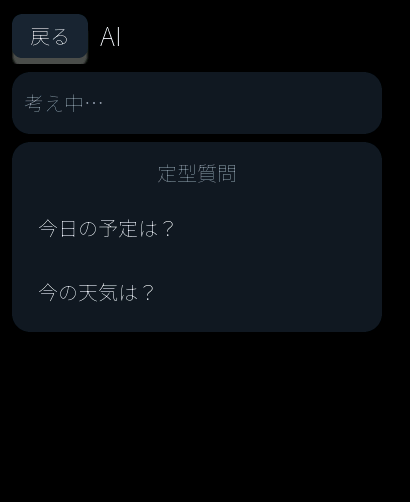
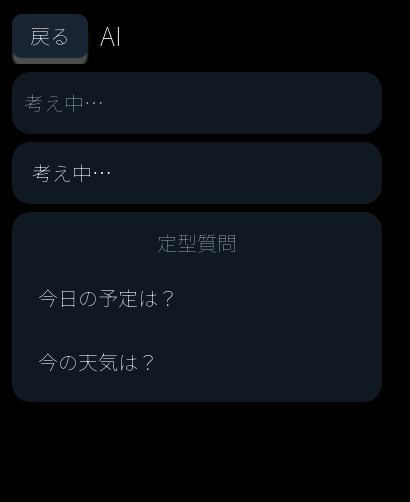
ui(agent): 返答/エラーカードを話しかける直下へ移動、考え中も同位置に表示

diff --git a/firmware/components/ui/src/screens/agent.cpp b/firmware/components/ui/src/screens/agent.cpp
@@ -90,13 +90,30 @@ void refresh() {
     lv_obj_add_flag(s.rec_bar, LV_OBJ_FLAG_HIDDEN);
   }
 
-  // 返答/エラーカード。
-  if (p == AgentPhase::Reply) {
-    lv_label_set_text(s.reply_l, watch::features::agent_reply_text());
+  // 送信中/考え中/返答/エラーカード (「話しかける」のすぐ下、定型質問より上)。
+  const char* reply_txt = nullptr;
+  bool show_close = false;
+  switch (p) {
+    case AgentPhase::Sending: reply_txt = "送信中…"; break;
+    case AgentPhase::Thinking: reply_txt = "考え中…"; break;
+    case AgentPhase::Reply:
+      reply_txt = watch::features::agent_reply_text();
+      show_close = true;
+      break;
+    case AgentPhase::Error:
+      reply_txt = watch::features::agent_error_text();
+      show_close = true;
+      break;
+    default: break;
+  }
+  if (reply_txt) {
+    lv_label_set_text(s.reply_l, reply_txt);
     lv_obj_remove_flag(s.reply_card, LV_OBJ_FLAG_HIDDEN);
-  } else if (p == AgentPhase::Error) {
-    lv_label_set_text(s.reply_l, watch::features::agent_error_text());
-    lv_obj_remove_flag(s.reply_card, LV_OBJ_FLAG_HIDDEN);
+    if (show_close) {
+      lv_obj_remove_flag(s.close_btn, LV_OBJ_FLAG_HIDDEN);
+    } else {
+      lv_obj_add_flag(s.close_btn, LV_OBJ_FLAG_HIDDEN);
+    }
   } else {
     lv_obj_add_flag(s.reply_card, LV_OBJ_FLAG_HIDDEN);
   }
@@ -136,6 +153,22 @@ lv_obj_t* build(lv_obj_t* scr) {
   lv_obj_set_style_bg_color(s.rec_bar, t.surface2, LV_PART_MAIN);
   lv_obj_set_style_bg_color(s.rec_bar, t.primary, LV_PART_INDICATOR);
 
+  // 返答/エラー表示カード (「話しかける」のすぐ下、定型質問より上。
+  // 長文はラベル折り返し + content 全体スクロール)。
+  s.reply_card = ui::c::card(col);
+  lv_obj_set_flex_align(s.reply_card, LV_FLEX_ALIGN_START,
+                        LV_FLEX_ALIGN_CENTER, LV_FLEX_ALIGN_CENTER);
+  s.reply_l = lv_label_create(s.reply_card);
+  lv_obj_set_width(s.reply_l, 330);
+  lv_obj_set_style_text_font(s.reply_l, t.font_body, 0);
+  lv_obj_set_style_text_color(s.reply_l, t.text, 0);
+  lv_label_set_long_mode(s.reply_l, LV_LABEL_LONG_WRAP);
+  s.close_btn = ui::c::button(s.reply_card, "閉じる",
+      [](lv_event_t*) { ui::emit(watch::ActionType::AgentClear); },
+      nullptr);
+  fit_in_card(s.close_btn);
+  lv_obj_add_flag(s.reply_card, LV_OBJ_FLAG_HIDDEN);
+
   // 定型質問ボタン (settings agent.q1..3 の非空分)。
   s.ask_card = ui::c::card(col);
   ui::c::line(s.ask_card, "定型質問");
@@ -156,21 +189,6 @@ lv_obj_t* build(lv_obj_t* scr) {
       lv_obj_set_width(l, LV_PCT(100));
     }
   }
-
-  // 返答/エラー表示カード (長文はラベル折り返し + content 全体スクロール)。
-  s.reply_card = ui::c::card(col);
-  lv_obj_set_flex_align(s.reply_card, LV_FLEX_ALIGN_START,
-                        LV_FLEX_ALIGN_CENTER, LV_FLEX_ALIGN_CENTER);
-  s.reply_l = lv_label_create(s.reply_card);
-  lv_obj_set_width(s.reply_l, 330);
-  lv_obj_set_style_text_font(s.reply_l, t.font_body, 0);
-  lv_obj_set_style_text_color(s.reply_l, t.text, 0);
-  lv_label_set_long_mode(s.reply_l, LV_LABEL_LONG_WRAP);
-  s.close_btn = ui::c::button(s.reply_card, "閉じる",
-      [](lv_event_t*) { ui::emit(watch::ActionType::AgentClear); },
-      nullptr);
-  fit_in_card(s.close_btn);
-  lv_obj_add_flag(s.reply_card, LV_OBJ_FLAG_HIDDEN);
 
   refresh();
   return scr;
